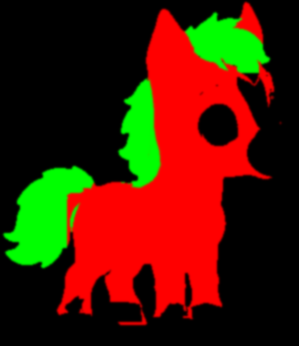
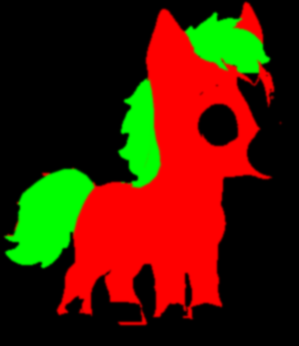
fix: trace organic tail seam and add repeatable random trial pairs

Changed region(s): [[0.0, 0.4624, 0.3311, 0.7225]]

diff --git a/tools/cosmetics/fix_foal_mask.py b/tools/cosmetics/fix_foal_mask.py
@@ -35,13 +35,9 @@ cream=(ss<.52)&(vv>.30)&mane_area&(a[:,:,3]>8)
 m=np.maximum(m,cream.astype(float))
 # Mane polygon must follow cream hair, never brown ears or skin underneath.
 m *= (((a[:,:,0].astype(float)<a[:,:,1]*1.40)&(ss<.60)) | (y>145)).astype(float)
-# Keep rump skin out of tail mask and include the slim cream edge of neck mane.
-m[(x>132)&(x<200)&(y>350)&(y<505)&(a[:,:,0].astype(float)>a[:,:,1]*1.35)]=0
-mane_edge=(x>237)&(x<310)&(y>188)&(y<362)&(ss<.64)&(a[:,:,0].astype(float)<a[:,:,1]*1.46)
-m=np.maximum(m,mane_edge.astype(float))
-# Trace the actual tail/body seam; dark outline pixels are not hair either.
-seam=np.interp(y,[350,375,400,425,450,480,505],[194,181,166,155,148,144,132])
-m[(y>350)&(y<510)&(x>seam)&(x<205)]=0
+# Organic tail seam traced on source, no rectangular clipping.
+tail=poly([[(0,490),(10,472),(27,471),(37,443),(36,408),(45,387),(74,363),(96,349),(127,338),(151,338),(172,350),(185,366),(188,374),(176,389),(166,407),(154,435),(147,462),(143,486),(133,507),(112,526),(89,536),(62,542),(35,537),(17,527),(2,516)]])
+m[(x<220)&(y>320)&(y<560)]=np.array(tail).astype(float)[(x<220)&(y>320)&(y<560)]/255.
 # The neck mane curls back over the coat at its lower edge.
 neck_edge=poly([[(295,173),(304,190),(307,220),(307,253),(311,279),(318,302),(320,330),(312,351),(298,365),(279,375),(263,373),(281,349),(294,320),(301,288),(301,252),(301,215)]])
 m=np.maximum(m,np.array(neck_edge)/255.)
